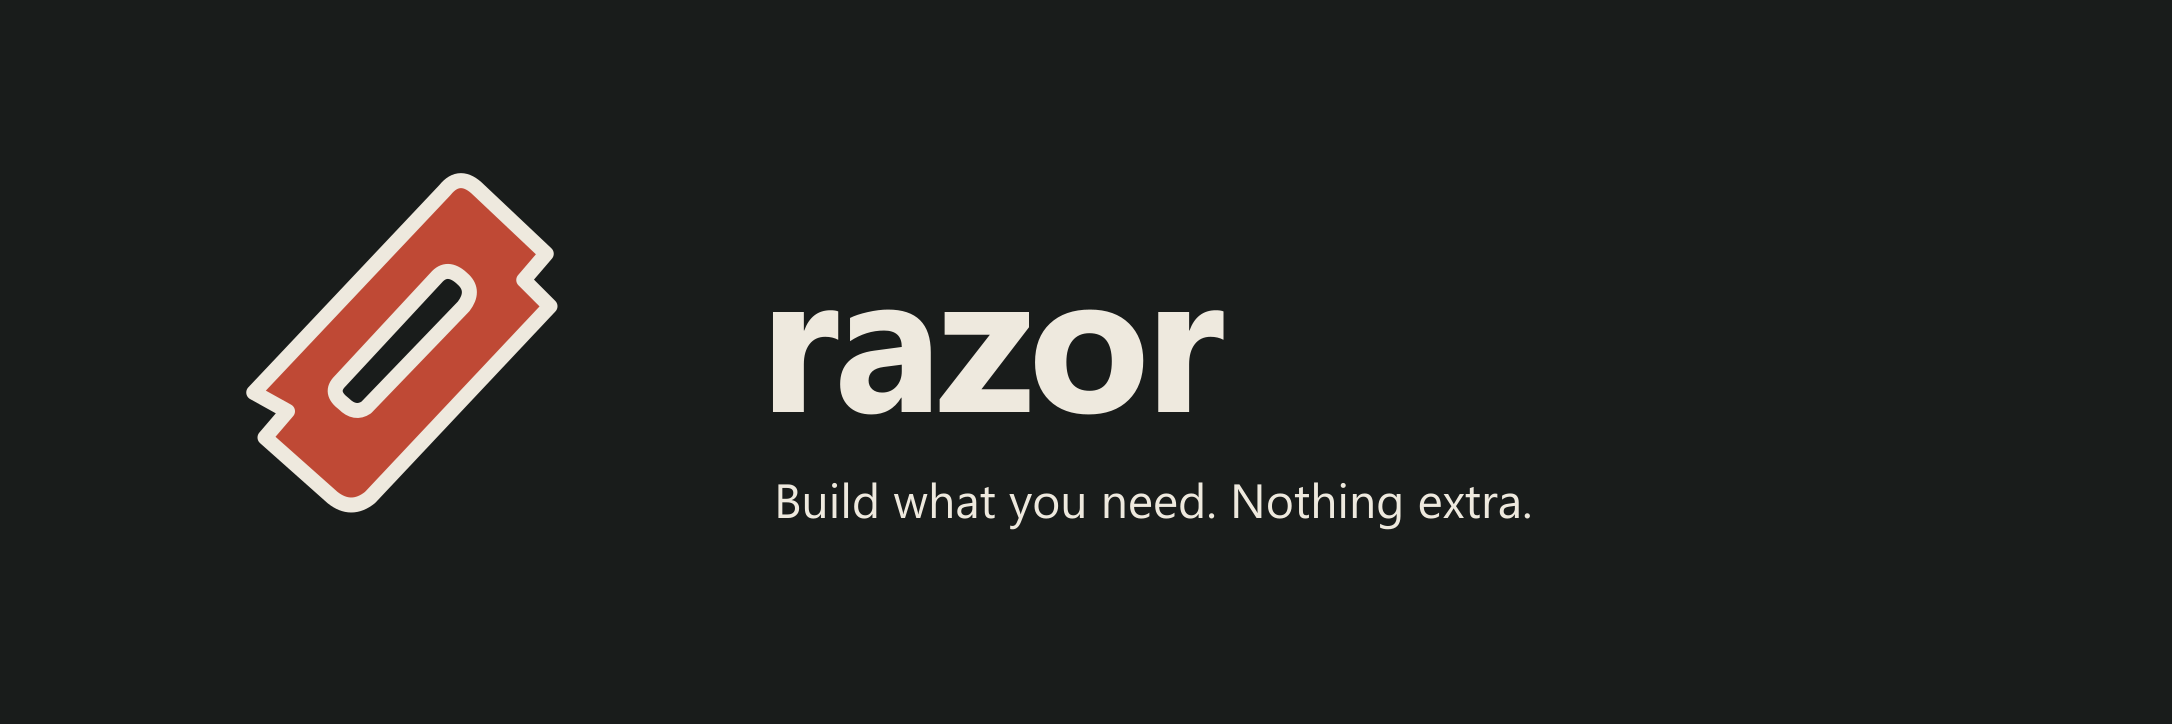
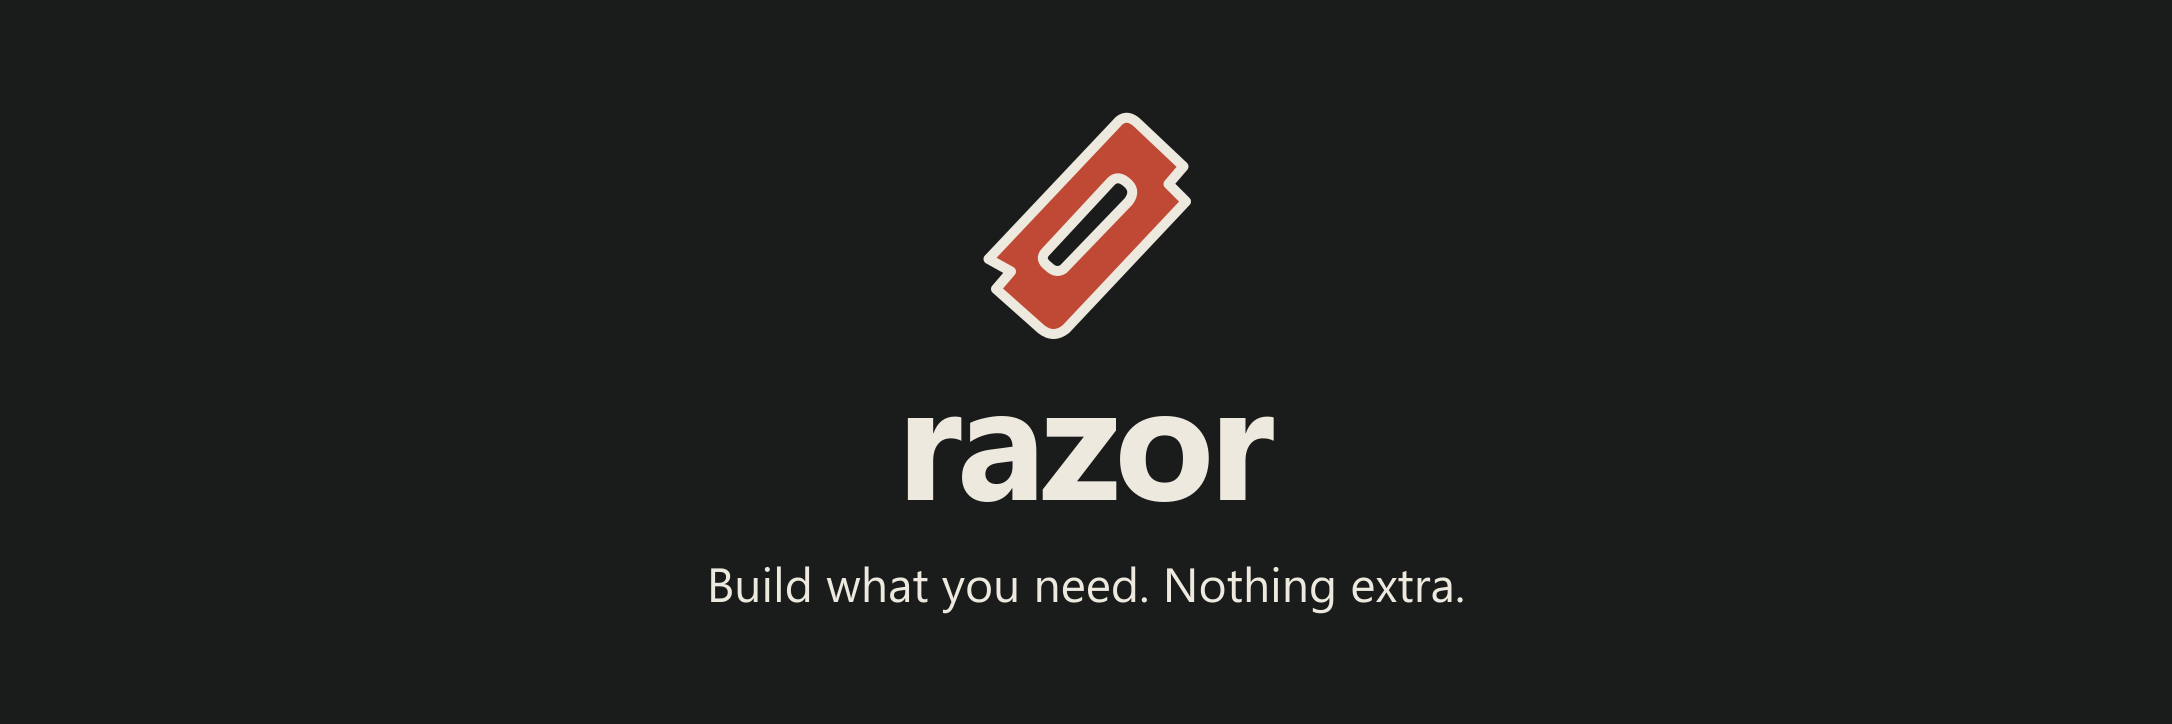
docs: center README branding and edition navigation

Changed region(s): [[0.3393, 0.1519, 0.7095, 0.7293], [0.0925, 0.2431, 0.2776, 0.7293], [0.3085, 0.7901, 0.6786, 0.8508]]

diff --git a/README.md b/README.md
@@ -8,11 +8,17 @@
   <p><strong>Before adding code, ask whether the project already has what it needs.</strong></p>
 </div>
 
+<p align="center"><strong>Available on</strong></p>
+<p align="center">
+  <a href="https://github.com/V-Songbird/razor/tree/Codex"><img src="assets/edition-codex.svg" alt="Codex" width="80" height="80" /></a>&emsp;&emsp;<a href="https://github.com/V-Songbird/razor/tree/Claude"><img src="assets/edition-claude.svg" alt="Claude" width="80" height="80" /></a><br />
+  <a href="https://github.com/V-Songbird/razor/tree/Codex">Codex</a>&emsp;&emsp;&emsp;&emsp;<a href="https://github.com/V-Songbird/razor/tree/Claude">Claude</a>
+</p>
+
 <!-- foundry:platform identity -->
-**Edition: Claude Code.** Use this edition’s installation and compatibility notes below.
+<p align="center"><strong>Edition: Claude Code.</strong> Use this edition’s installation and compatibility notes below.</p>
 <!-- /foundry:platform identity -->
 
-[**Install**](#install) · [What is this?](#what-is-this) · [What you can do](#what-you-can-do) · [The numbers](#the-numbers) · [Going deeper](#going-deeper)
+<p align="center"><a href="#install"><strong>Get started</strong></a> · <a href="#what-is-this">What is this?</a> · <a href="#how-it-works">How it works</a> · <a href="#what-you-can-do">What you can do</a> · <a href="#the-numbers">Evidence</a></p>
 
 ## What is this?
 
